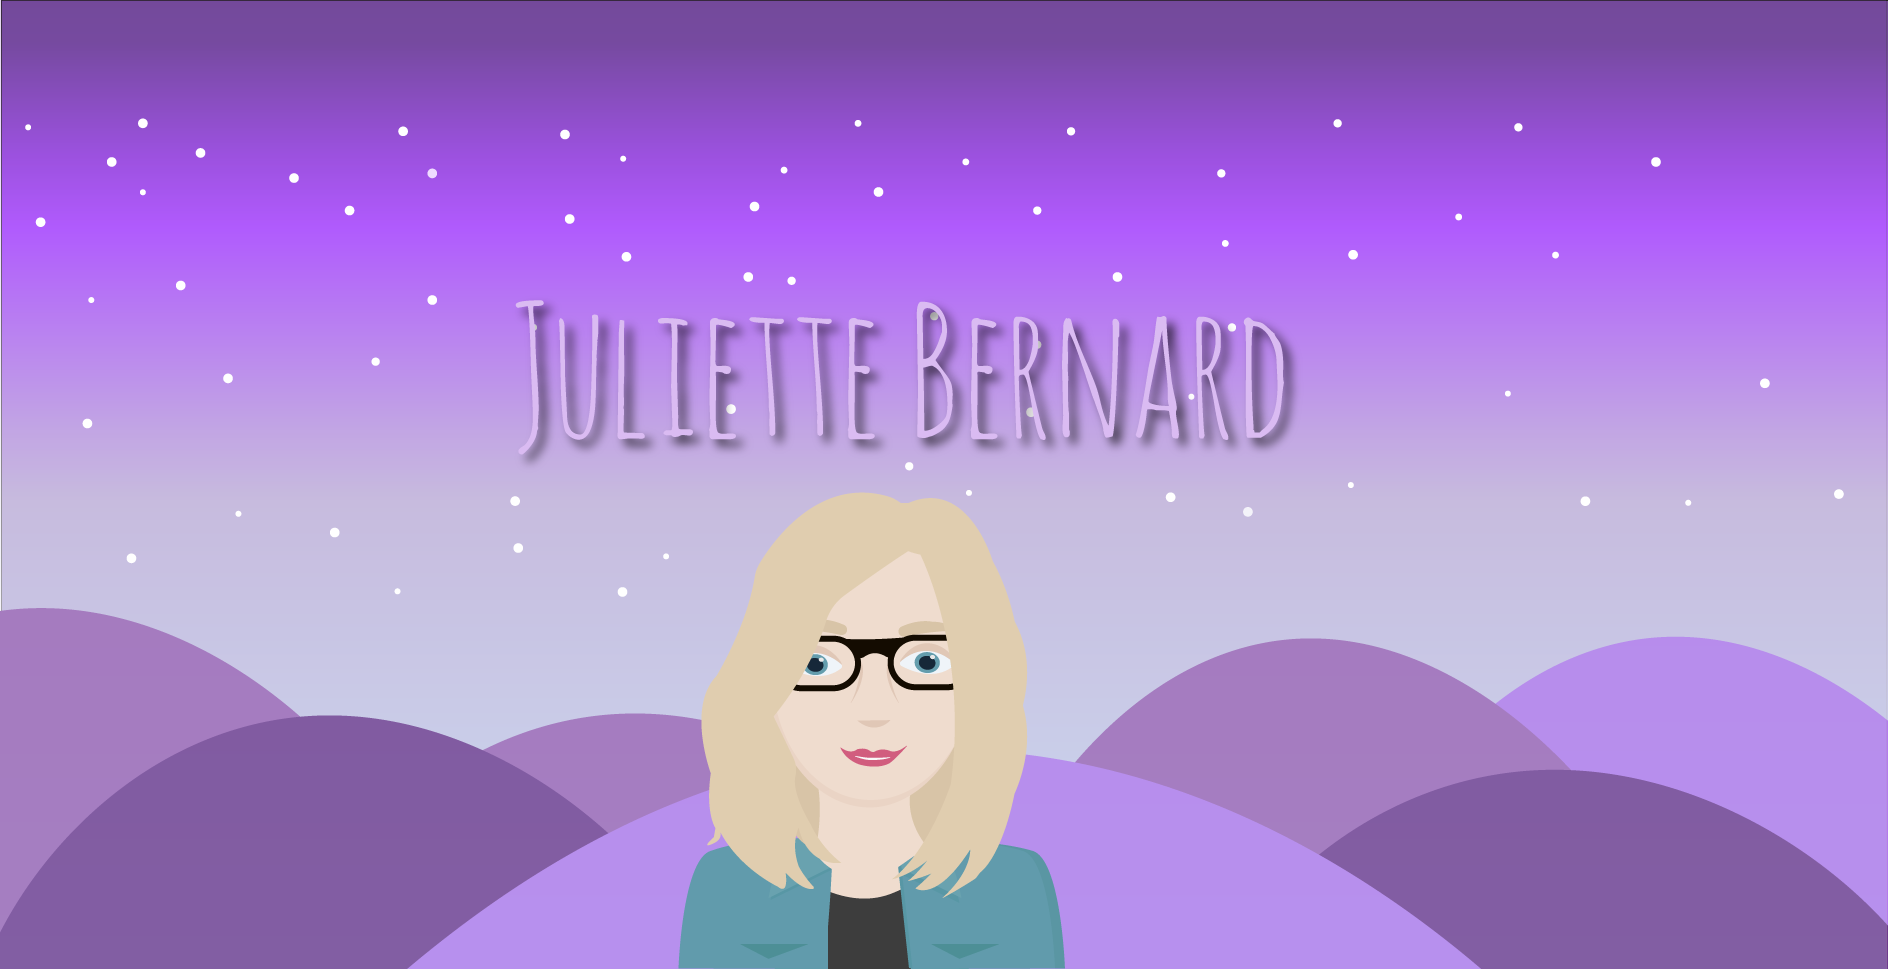
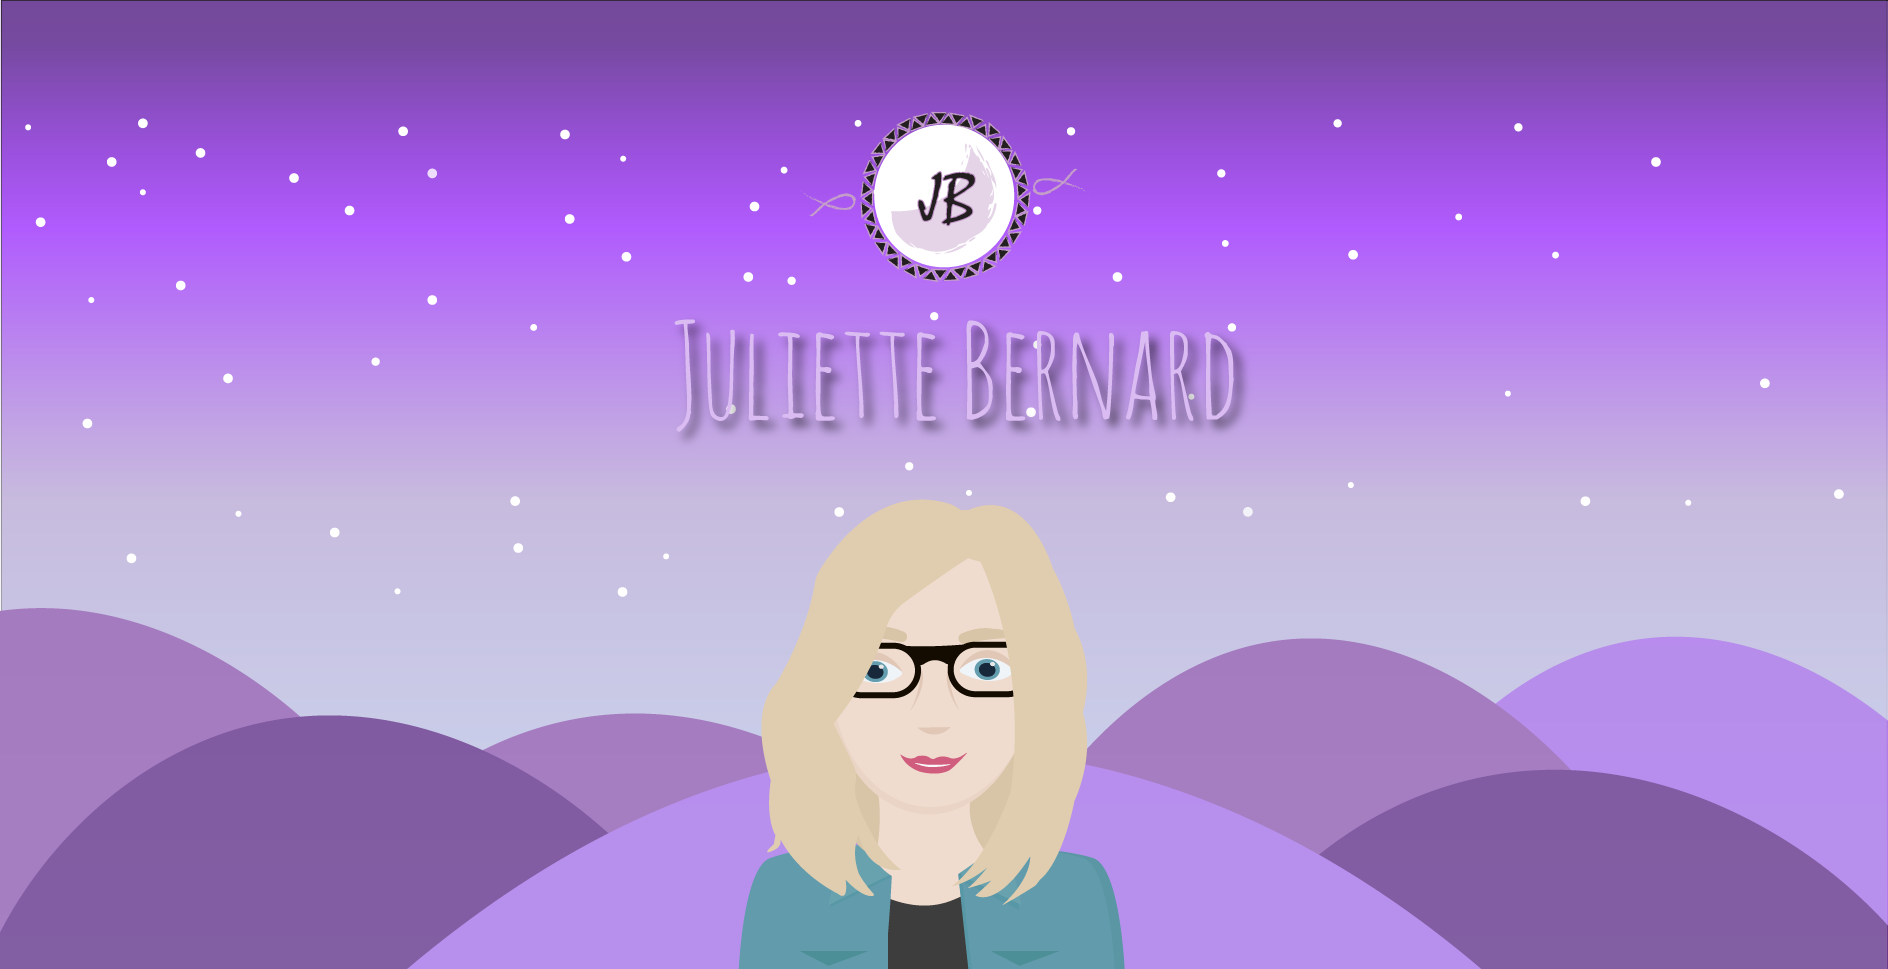
mise au jour

Changed region(s): [[0.3438, 0.4954, 0.5938, 1.0], [0.25, 0.0929, 0.6875, 0.4644]]

diff --git a/js.js b/js.js
@@ -15,7 +15,7 @@ $(".contenu-realisation").click(affiche);
 
 var crea1=["image/retro-geek.png","image/retro-geek-logo.png","image/helloproject.png","image/chalenge.png","image/retro01.png","image/soleil%20avenir.png","image/canaltizef.png","image/KELT.png","image/carte.png"];
 
-var crea2=["En 2016, j'ai crée une affiche pour l'association Retro Geek, dont je fait parti. Cette affiche à pour but de promouvoir cette jeune association. Retro Geek est une association qui à pour but de préserver le patrimoine vidéoludique. </br> Dans cette affiche j'ai cherché a représenter l'univers du retro Gaming avec une écriture pixisé et des élement rappelant cette univers : la manette de la nes et un pistolet en pixel art." ,"En Avril 2016, j'ai crée le logo de Retro Geek. J'ai cherché à représenté univers des ancien jeux vidéo à travers se logo. Une des condition du président de l'associatione est que logo devrait avoir des coleur flash. Le contour de logo represente une manette style la nes. L'écriture est pixélisé. Les 'e' sont en forme de pacman. Le 'o' est en forme de bloc mystère de Mario","En 2016, j'ai crée un logo pour la page 'Hello ! Project Game', La page est en ce moment inactif. C'est page gérée par Midori et Maiju, 2 fan du regroupement de groupe Hello!Project. Le but de la page est de crée des petits jeux sur cette passion commun.","Lors du projet tutoré en fin de première année MMI, j'ai réalisé plusieurs élément d'un site web. le but de notre site était crée un site communautaire pour les MMI : pour échangé, réalisé des défis (graphisme,...),... Dans ce projet je me suis principalement occupé du quizz inscription. j'ai réalisée les mascotte et le code (en js/css/html) . le but de se Quizz était de posé des questions sur des connaissances, et grâce a ces réponse ont lui proposé une communauté  (graphisme, audio visuel, programmation ou communication). (juin 2016)","En 2017, lors d'un projet d'étude j'ai crée un reportage sur retro geek. Dans l’application l’utilisateur va plongé dans univers du Retro gaming où comme dans un jeu il ya devoir resoudre une mission. Il va se promène dans diffèrent univers qui correspondra à une partie du reportage. Chaque univers fera référence à un jeu précis. Le but de l’utilisateur est de récolter tout les informations. A la fin de chaque partie du reportage, il obtiendra une clef qui lui permettra d'accéder à la fin du web reportage","Cette années, lors d'un cours de création entreprise, nous avons crée un projet d'entreprise où a crée plusieurs logo. Voici un de c'est logos. L'entreprise soleil avenir a pour but de produire de électricité via l'énergie solaire.Le logo represente un soleil se levent sur un champ de panneau photovoltaique avec un chemin qui réprensente l'avenir. Le jaune réprensente le soleil.","","","En 2016, j'ai crée des cartes visites pour moi. Qui repprend l'univers que j'ai crée dans mon cv. J'ai voulu me crée une identité visuelle avec logo qui me représente avec des couleurs qui me plaisent.  "];
+var crea2=["En 2016, j'ai crée une affiche pour l'association Retro Geek, dont je fait parti. Cette affiche à pour but de promouvoir cette jeune association. Retro Geek est une association qui à pour but de préserver le patrimoine vidéoludique. </br> Dans cette affiche j'ai cherché a représenter l'univers du retro Gaming avec une écriture pixisé et des élement rappelant cette univers : la manette de la nes et un pistolet en pixel art." ,"En Avril 2016, j'ai crée le logo de Retro Geek. J'ai cherché à représenté univers des ancien jeux vidéo à travers se logo. Une des condition du président de l'associatione est que logo devrait avoir des coleur flash. Le contour de logo represente une manette style la nes. L'écriture est pixélisé. Les 'e' sont en forme de pacman. Le 'o' est en forme de bloc mystère de Mario","En 2016, j'ai crée un logo pour la page 'Hello ! Project Game', La page est en ce moment inactif. C'est page gérée par Midori et Maiju, 2 fan du regroupement de groupe Hello!Project. Le but de la page est de crée des petits jeux sur cette passion commun.","Lors du projet tutoré en fin de première année MMI, j'ai réalisé plusieurs élément d'un site web. le but de notre site était crée un site communautaire pour les MMI : pour échangé, réalisé des défis (graphisme,...),... Dans ce projet je me suis principalement occupé du quizz inscription. j'ai réalisée les mascotte et le code (en js/css/html) . le but de se Quizz était de posé des questions sur des connaissances, et grâce a ces réponse ont lui proposé une communauté  (graphisme, audio visuel, programmation ou communication). (juin 2016)","En 2017, lors d'un projet d'étude j'ai crée un reportage sur retro geek. Dans l’application l’utilisateur va plongé dans univers du Retro gaming où comme dans un jeu il ya devoir resoudre une mission. Il va se promène dans diffèrent univers qui correspondra à une partie du reportage. Chaque univers fera référence à un jeu précis. Le but de l’utilisateur est de récolter tout les informations. A la fin de chaque partie du reportage, il obtiendra une clef qui lui permettra d'accéder à la fin du web reportage","Cette années, lors d'un cours de création entreprise, nous avons crée un projet d'entreprise où a crée plusieurs logo. Voici un de c'est logos. L'entreprise soleil avenir a pour but de produire de électricité via l'énergie solaire.Le logo represente un soleil se levent sur un champ de panneau photovoltaique avec un chemin qui réprensente l'avenir. Le jaune réprensente le soleil.","lors de mon stage à Canal ti zef, ma mission principale était d'améliorer le design du site, amélioré l'orgination du site  et donné des pistes pour le rendre plus accessible au utilisateurs le site. Les principales exigance de l'associaion est de gardé leur site sous SPIP et modifé un thème déja existant. ","Lors d'un projet tutoré, avec un 4 étudiant de ma promotions, nous créons un application nommées kelt. L’objectif de l’application est de faire découvrir Brocéliandes aux enfants sous forme de quêtes en rapport avec les légendes ou anecdotes. Le but serait de constituer son journal de bord. Cette application serait proposée à l’office de tourisme de Brocéliande afin de promouvoir certaines régions de Bretagne. Nous avons crée un prototypes et bientôt nous finirons la version finale. Sur le propotypes, j'ai codé le déroulement d'une quête et les mini-jeux. ","En 2016, j'ai crée des cartes visites pour moi. Qui repprend l'univers que j'ai crée dans mon cv. J'ai voulu me crée une identité visuelle avec logo qui me représente avec des couleurs qui me plaisent.  "];
 
 function color(evt){
 

diff --git a/style.css b/style.css
@@ -24,7 +24,7 @@
   text-align: center;
   padding: 14px 16px;
   text-decoration: none;
-  font-size: 17px;
+  font-size: 20px;
   
         
 list-style-type:none; 
@@ -164,11 +164,7 @@ nav div{
 
     display: flex;
 }
-#logo{
-    height: 130px;
-    margin-left: 40%;
-    margin-top: 2%;
-}
+
 
 #porte{
      height: 20vh;
@@ -199,6 +195,7 @@ a{
     font-size:30px;
     
 }
+
 #loisir img{
     width: 8%;
     margin-left: 10%;
@@ -245,26 +242,13 @@ display: inline-block;
 #contact p{
     font-family: "gras";
 }
-@media all and (max-width: 600px) {
-  .topnav a:not(:first-child) {display: none;}
-  .topnav a.icon {
-    float: right;
-    display: block;
-  }
-   
-}
 
-@media all and (max-width: 600px) {
-  .topnav.responsive {position: relative;}
-  .topnav.responsive .icon {
-    position: absolute;
-    right: 0;
-    top: 0;
-  }
-  .topnav.responsive a {
-    float: none;
-    display: block;
-    text-align: left;
-  }
-
+@media (max-width: 768px) {  
+     #porte{
+        height: 20vh;
+    margin-left: 30%;
+    margin-top: 2%;    
+        
+    }
+  
 }

diff --git a/apropos.html b/apropos.html
@@ -27,16 +27,7 @@
         
   <a href="javascript:void(0);" style="font-size:15px;" class="icon" onclick="myFunction()">&#9776;</a>
 </div>
-            <script>
-function myFunction() {
-    var x = document.getElementById("myTopnav");
-    if (x.className === "topnav") {
-        x.className += " responsive";
-    } else {
-        x.className = "topnav";
-    }
-}
-</script>   
+            
     </nav>
         <img id="porte" class="logo" src="image/testporte.png" />
         <div id="contenu"><div id="text"><h1  class="test" data-text="A propos de moi"> </h1><p>Je suis étudiante en 2e année MMI à LAVAL. J’ai 21 ans. Je suis passionné par le multimédia, plus particulièrement par univers du web car elle mélange créativité et la programmation. Je m’intéresse à l’infographie et  la programmation web. Lors mes temps libre j’aime dessiner, chanter, la culture asiatique.</p></div></div>

diff --git a/conctat.html b/conctat.html
@@ -28,16 +28,7 @@
   <a href="javascript:void(0);" style="font-size:15px;" class="icon" onclick="myFunction()">&#9776;</a>
 </div>
     </nav>
-       <script>
-function myFunction() {
-    var x = document.getElementById("myTopnav");
-    if (x.className === "topnav") {
-        x.className += " responsive";
-    } else {
-        x.className = "topnav";
-    }
-}
-</script>   
+     
     </header>
     <div style="display: flex;"><img style=" padding: 5%;width:15% heigh:20%" src="image/testporte.png" /><div id="contact" style="margin-top:16%; width: 50%;text-align: center;"><h1 class="test" style="text-align:center" data-text="Rester en contact ?"> </h1><p>Pour plus d'information, n'hesitez pas à me conctacter par mail.</p><p>juliette.bernard013@gmail.com</p></div></div>
     <footer>crée par Juliette Bernard 2017 </footer>

diff --git a/index.html b/index.html
@@ -24,19 +24,10 @@
         
   <a href="javascript:void(0);" style="font-size:15px;" class="icon" onclick="myFunction()">&#9776;</a>
 </div>
-              <script>
-function myFunction() {
-    var x = document.getElementById("myTopnav");
-    if (x.className === "topnav") {
-        x.className += " responsive";
-    } else {
-        x.className = "topnav";
-    }
-}
-</script>
+
        
     </nav>
-        <img id="logo" src='image/logo.png' />
+       
         
     </header>
     

diff --git a/creation.html b/creation.html
@@ -42,14 +42,7 @@
     <div id="realisation"><div class="contenu-realisation"></div><div class="contenu-realisation"></div><div class="contenu-realisation"></div></div>
     <footer>  crée par Juliette Bernard 2017  </footer>
     <script>
-function myFunction() {
-    var x = document.getElementById("myTopnav");
-    if (x.className === "topnav") {
-        x.className += " responsive";
-    } else {
-        x.className = "topnav";
-    }
-}
+
 </script>
 </body>
 
